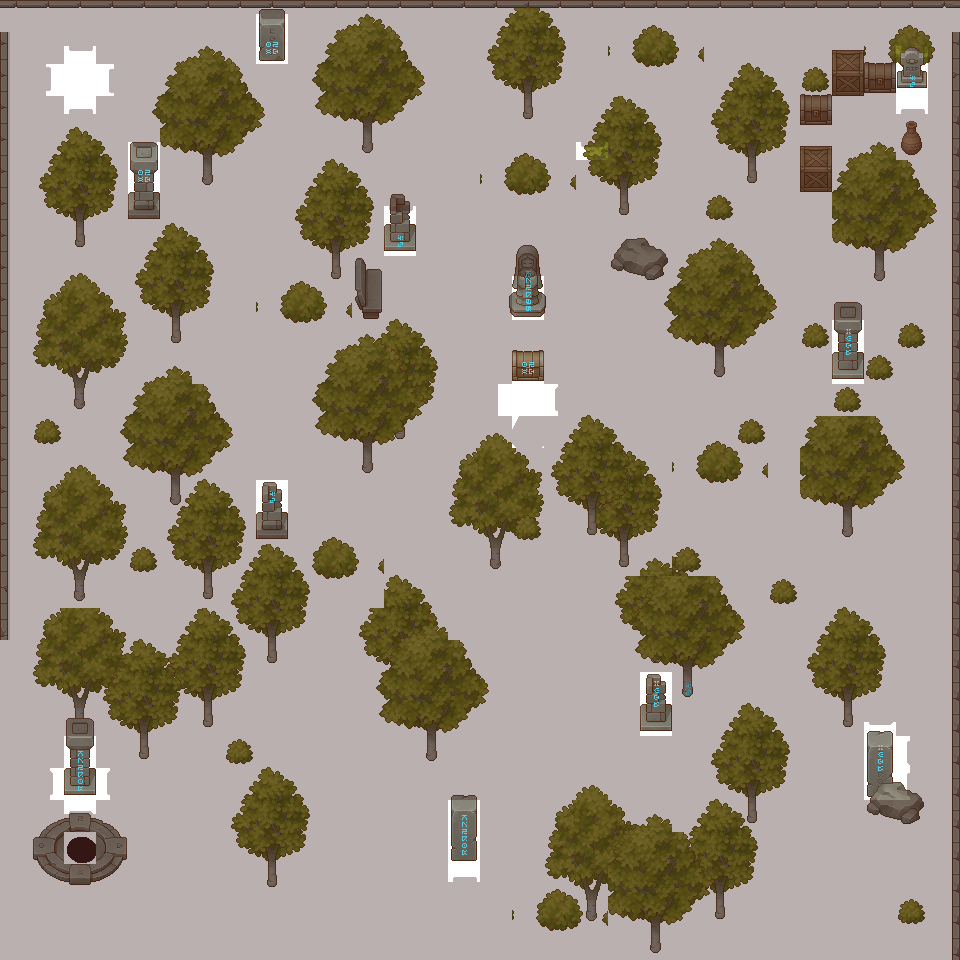
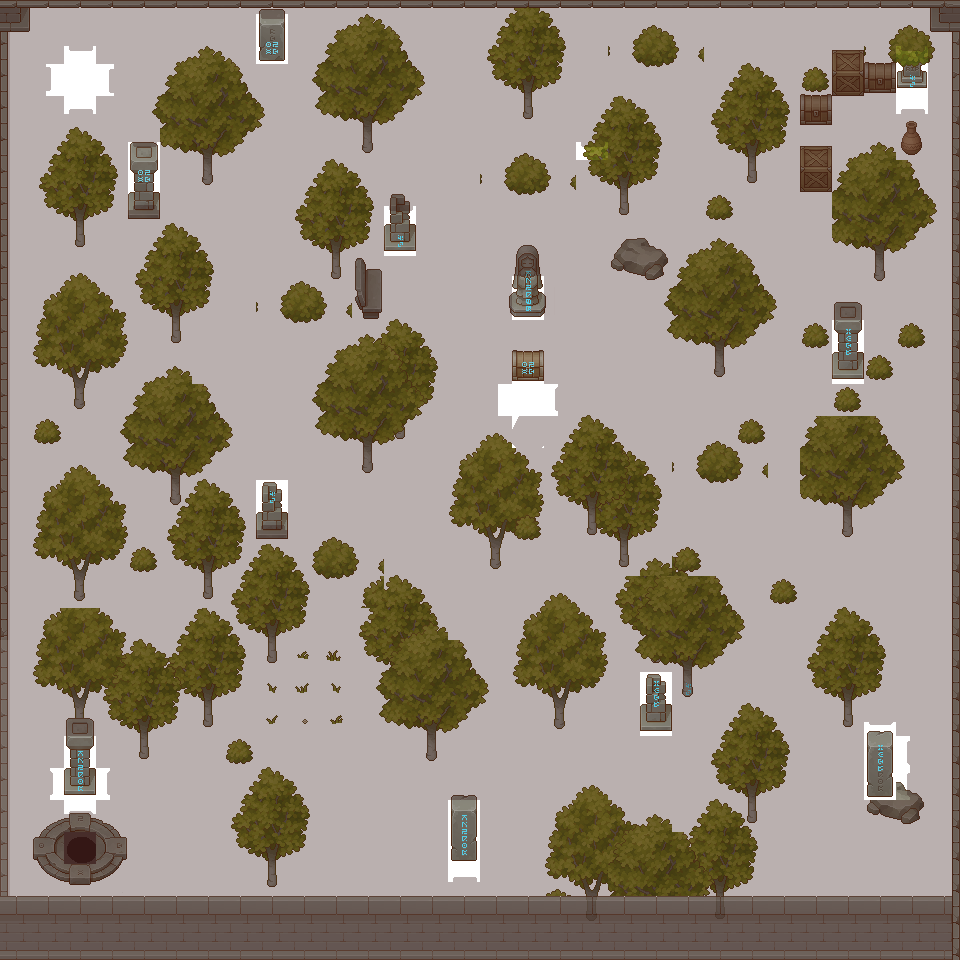
tweakin Geekin
this commit is map related changes and wall detection

diff --git a/Projects/EchoesOfLumina/OverworldMap.js b/Projects/EchoesOfLumina/OverworldMap.js
@@ -39,7 +39,7 @@ class OverworldMap {
 
 //  this determins if mount is possible
         o.mount(this);
-        
+
      })
     }
 
@@ -51,7 +51,7 @@ class OverworldMap {
     }
     moveWall(wasX, wasY, direction) {
         // removes the past wall
-        this.removeWallwalls(wasX, wasY);
+        this.removeWall(wasX, wasY);
         // creates a new one but offest from the original
         const {x,y} = utils.nextPosition(wasX, wasY, direction);
         // places new wall
@@ -81,7 +81,7 @@ class OverworldMap {
       walls: {
         // utility to atomate the values
         // [] dynamic key
-        [utils.asGridCoord(0,0)] : true,
+        [utils.asGridCoord(0,0 && 0,29)] : true,
         [utils.asGridCoord(7,9)] : true,
         [utils.asGridCoord(16,9)] : true,
         [utils.asGridCoord(100,0 && 0,100)] : true,

diff --git a/Projects/EchoesOfLumina/Person.js b/Projects/EchoesOfLumina/Person.js
@@ -42,6 +42,8 @@ class Person extends GameObject {
         if (state.map.isSpaceTaken(this.x, this.y, this.direction)){
         return;
         }
+
+        state.map.moveWall(this.x, this.y, this.direction)
         this.movingProgressRemaining = 16;
         
     }
